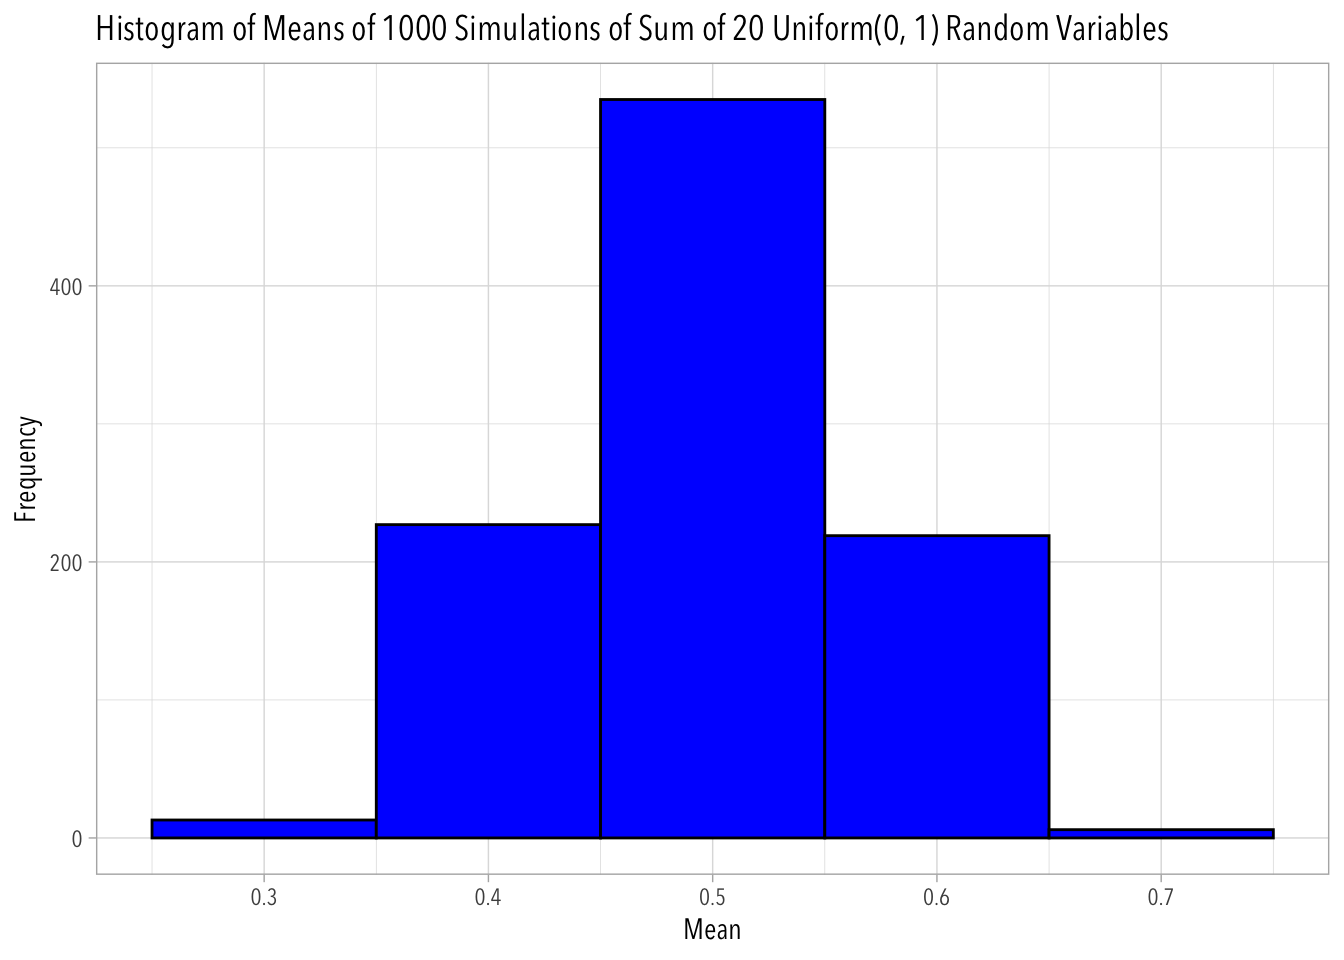
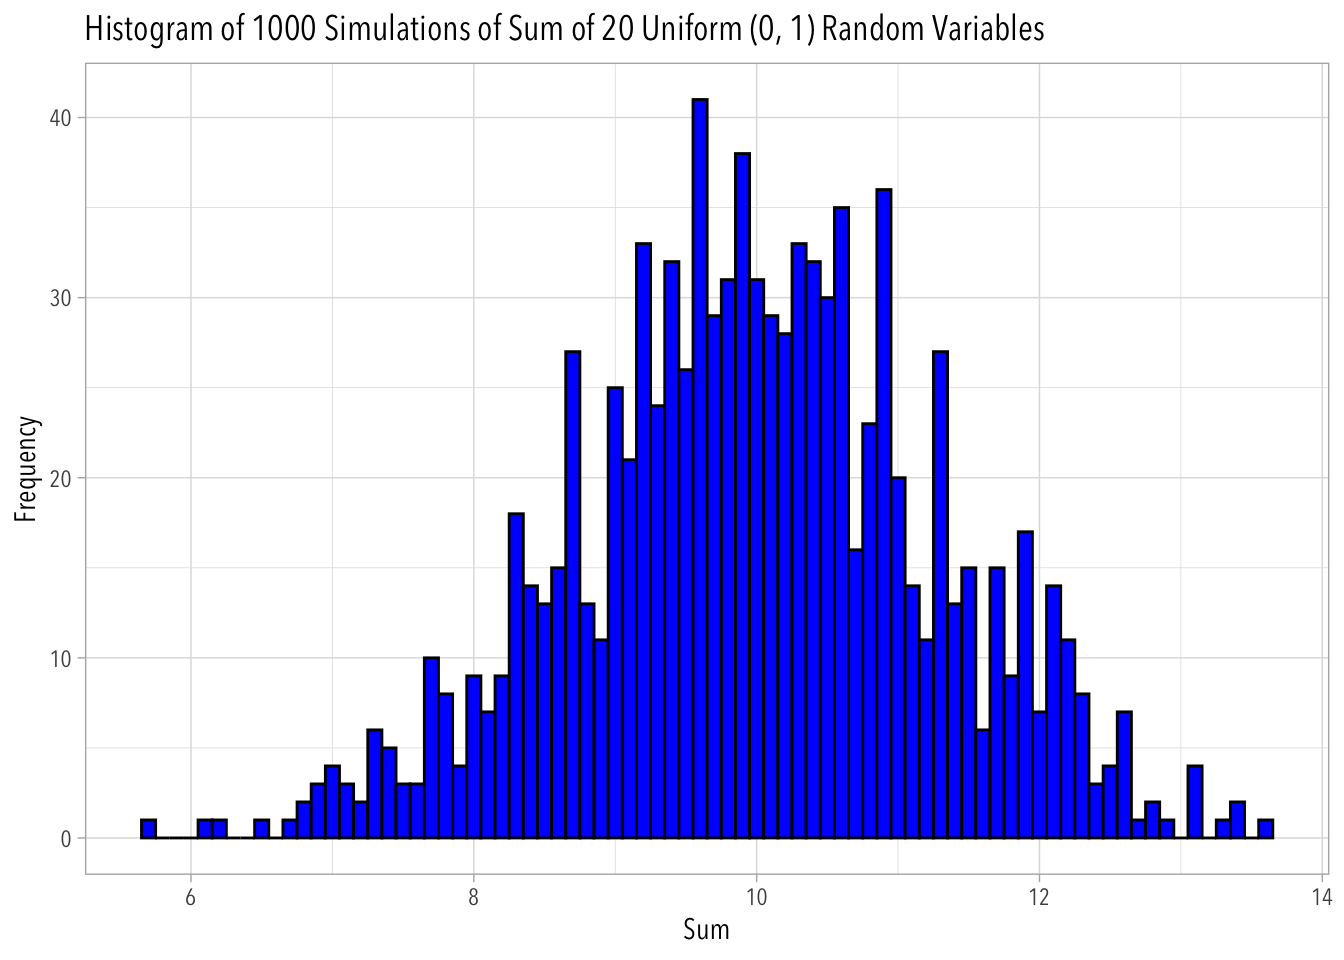
Revised responses

diff --git a/Week 4 Exercises/Exercise_04.html b/Week 4 Exercises/Exercise_04.html
@@ -106,32 +106,37 @@ pre > code.sourceCode > span > a:first-child::before { text-decoration: underlin
 <p>Use the mean() function to verify that x exhibits those four behaviors.</p>
 <div class="cell">
 <div class="sourceCode cell-code" id="cb1"><pre class="sourceCode r code-with-copy"><code class="sourceCode r"><span id="cb1-1"><a href="#cb1-1" aria-hidden="true" tabindex="-1"></a>x <span class="ot">&lt;-</span> <span class="fu">rnorm</span>(<span class="dv">100000</span>, <span class="at">mean =</span> <span class="dv">0</span>, <span class="at">sd =</span> <span class="dv">1</span>)</span>
-<span id="cb1-2"><a href="#cb1-2" aria-hidden="true" tabindex="-1"></a></span>
-<span id="cb1-3"><a href="#cb1-3" aria-hidden="true" tabindex="-1"></a></span>
-<span id="cb1-4"><a href="#cb1-4" aria-hidden="true" tabindex="-1"></a>mean_x<span class="ot">&lt;-</span><span class="fu">mean</span>(x)</span>
-<span id="cb1-5"><a href="#cb1-5" aria-hidden="true" tabindex="-1"></a>sd_x<span class="ot">&lt;-</span><span class="fu">sd</span>(x)</span>
-<span id="cb1-6"><a href="#cb1-6" aria-hidden="true" tabindex="-1"></a></span>
-<span id="cb1-7"><a href="#cb1-7" aria-hidden="true" tabindex="-1"></a><span class="co"># Calculating proportion of data within one SD of the mean</span></span>
-<span id="cb1-8"><a href="#cb1-8" aria-hidden="true" tabindex="-1"></a><span class="fu">sum</span>(<span class="fu">abs</span>(x <span class="sc">-</span> mean_x) <span class="sc">&lt;=</span> sd_x) <span class="sc">/</span> <span class="fu">length</span>(x)</span></code><button title="Copy to Clipboard" class="code-copy-button"><i class="bi"></i></button></pre></div>
+<span id="cb1-2"><a href="#cb1-2" aria-hidden="true" tabindex="-1"></a>mean_x<span class="ot">&lt;-</span><span class="fu">mean</span>(x)</span>
+<span id="cb1-3"><a href="#cb1-3" aria-hidden="true" tabindex="-1"></a>sd_x<span class="ot">&lt;-</span><span class="fu">sd</span>(x)</span>
+<span id="cb1-4"><a href="#cb1-4" aria-hidden="true" tabindex="-1"></a></span>
+<span id="cb1-5"><a href="#cb1-5" aria-hidden="true" tabindex="-1"></a><span class="co"># Calculating proportion of data within one SD of the mean</span></span>
+<span id="cb1-6"><a href="#cb1-6" aria-hidden="true" tabindex="-1"></a><span class="fu">sum</span>(<span class="fu">abs</span>(x <span class="sc">-</span> mean_x) <span class="sc">&lt;=</span> sd_x) <span class="sc">/</span> <span class="fu">length</span>(x)</span></code><button title="Copy to Clipboard" class="code-copy-button"><i class="bi"></i></button></pre></div>
 <div class="cell-output cell-output-stdout">
-<pre><code>[1] 0.68219</code></pre>
+<pre><code>[1] 0.68328</code></pre>
 </div>
 <div class="sourceCode cell-code" id="cb3"><pre class="sourceCode r code-with-copy"><code class="sourceCode r"><span id="cb3-1"><a href="#cb3-1" aria-hidden="true" tabindex="-1"></a><span class="co"># Calculating proportion of data within two SDs of the mean</span></span>
 <span id="cb3-2"><a href="#cb3-2" aria-hidden="true" tabindex="-1"></a><span class="fu">sum</span>(<span class="fu">abs</span>(x <span class="sc">-</span> mean_x) <span class="sc">&lt;=</span> <span class="dv">2</span> <span class="sc">*</span> sd_x) <span class="sc">/</span> <span class="fu">length</span>(x)</span></code><button title="Copy to Clipboard" class="code-copy-button"><i class="bi"></i></button></pre></div>
 <div class="cell-output cell-output-stdout">
-<pre><code>[1] 0.95419</code></pre>
+<pre><code>[1] 0.95492</code></pre>
 </div>
 <div class="sourceCode cell-code" id="cb5"><pre class="sourceCode r code-with-copy"><code class="sourceCode r"><span id="cb5-1"><a href="#cb5-1" aria-hidden="true" tabindex="-1"></a><span class="co"># Calculating the proportion of data above the mean</span></span>
 <span id="cb5-2"><a href="#cb5-2" aria-hidden="true" tabindex="-1"></a><span class="fu">sum</span>(x <span class="sc">&gt;</span> mean_x) <span class="sc">/</span> <span class="fu">length</span>(x)</span></code><button title="Copy to Clipboard" class="code-copy-button"><i class="bi"></i></button></pre></div>
 <div class="cell-output cell-output-stdout">
-<pre><code>[1] 0.49936</code></pre>
+<pre><code>[1] 0.50085</code></pre>
 </div>
 <div class="sourceCode cell-code" id="cb7"><pre class="sourceCode r code-with-copy"><code class="sourceCode r"><span id="cb7-1"><a href="#cb7-1" aria-hidden="true" tabindex="-1"></a><span class="co"># Calculating the proportion of data below the mean</span></span>
 <span id="cb7-2"><a href="#cb7-2" aria-hidden="true" tabindex="-1"></a><span class="fu">sum</span>(x <span class="sc">&lt;</span> mean_x) <span class="sc">/</span> <span class="fu">length</span>(x)</span></code><button title="Copy to Clipboard" class="code-copy-button"><i class="bi"></i></button></pre></div>
 <div class="cell-output cell-output-stdout">
-<pre><code>[1] 0.50064</code></pre>
+<pre><code>[1] 0.49915</code></pre>
 </div>
 </div>
+<p>I verify that x:</p>
+<ol type="1">
+<li>The probability that x is within one sd from the mean is roughly 68%</li>
+<li>The probability that x is within 2 sds from the mean is roughly 95%</li>
+<li>The probability that x is above the mean is roughly 50%</li>
+<li>The probability that x is below the mean is roughly 50%</li>
+</ol>
 </section>
 <section id="section-1" class="level1">
 <h1><strong>4.2</strong></h1>
@@ -140,7 +145,7 @@ pre > code.sourceCode > span > a:first-child::before { text-decoration: underlin
 <div class="sourceCode cell-code" id="cb9"><pre class="sourceCode r code-with-copy"><code class="sourceCode r"><span id="cb9-1"><a href="#cb9-1" aria-hidden="true" tabindex="-1"></a><span class="fu">quantile</span>(x)</span></code><button title="Copy to Clipboard" class="code-copy-button"><i class="bi"></i></button></pre></div>
 <div class="cell-output cell-output-stdout">
 <pre><code>          0%          25%          50%          75%         100% 
--4.504642883 -0.676106636 -0.002034756  0.671751093  5.187369717 </code></pre>
+-4.375343108 -0.677208220 -0.001877512  0.673738804  4.491992133 </code></pre>
 </div>
 </div>
 <p>The <code>quantile()</code> function returns a vector of quantiles, or the specific datapoints that divide the x dataset into intervals of equal probabilities: 0%, 25%, 50%, 75%, 100%. The x dataset is normally distributed with a target mean of 0, so as expected, the 50% quantile is approximately equal to 0. The 25% quantile is roughly symmetrical with the 75% quantile, and the 0% quantile is roughly symmetrical with the 100% quantile.</p>
@@ -149,15 +154,17 @@ pre > code.sourceCode > span > a:first-child::before { text-decoration: underlin
 <h1>4.3</h1>
 <p>Now modify the probs argument in the quantile() to find the 0.5% and 99.5% percentiles of x.</p>
 <div class="cell">
-<div class="sourceCode cell-code" id="cb11"><pre class="sourceCode r code-with-copy"><code class="sourceCode r"><span id="cb11-1"><a href="#cb11-1" aria-hidden="true" tabindex="-1"></a><span class="fu">quantile</span>(x, <span class="at">probs=</span><span class="fl">0.005</span>)</span></code><button title="Copy to Clipboard" class="code-copy-button"><i class="bi"></i></button></pre></div>
+<div class="sourceCode cell-code" id="cb11"><pre class="sourceCode r code-with-copy"><code class="sourceCode r"><span id="cb11-1"><a href="#cb11-1" aria-hidden="true" tabindex="-1"></a><span class="co"># .5% percentile</span></span>
+<span id="cb11-2"><a href="#cb11-2" aria-hidden="true" tabindex="-1"></a><span class="fu">quantile</span>(x, <span class="at">probs=</span><span class="fl">0.005</span>)</span></code><button title="Copy to Clipboard" class="code-copy-button"><i class="bi"></i></button></pre></div>
 <div class="cell-output cell-output-stdout">
 <pre><code>     0.5% 
--2.573622 </code></pre>
+-2.573671 </code></pre>
 </div>
-<div class="sourceCode cell-code" id="cb13"><pre class="sourceCode r code-with-copy"><code class="sourceCode r"><span id="cb13-1"><a href="#cb13-1" aria-hidden="true" tabindex="-1"></a><span class="fu">quantile</span>(x, <span class="at">probs=</span><span class="fl">0.995</span>)</span></code><button title="Copy to Clipboard" class="code-copy-button"><i class="bi"></i></button></pre></div>
+<div class="sourceCode cell-code" id="cb13"><pre class="sourceCode r code-with-copy"><code class="sourceCode r"><span id="cb13-1"><a href="#cb13-1" aria-hidden="true" tabindex="-1"></a><span class="co"># 99.5% quantile</span></span>
+<span id="cb13-2"><a href="#cb13-2" aria-hidden="true" tabindex="-1"></a><span class="fu">quantile</span>(x, <span class="at">probs=</span><span class="fl">0.995</span>)</span></code><button title="Copy to Clipboard" class="code-copy-button"><i class="bi"></i></button></pre></div>
 <div class="cell-output cell-output-stdout">
 <pre><code>   99.5% 
-2.589747 </code></pre>
+2.580289 </code></pre>
 </div>
 </div>
 </section>
@@ -165,65 +172,52 @@ pre > code.sourceCode > span > a:first-child::before { text-decoration: underlin
 <h1>4.4</h1>
 <p>Use the <code>mean()</code> function to verify that the probability of x being between -2.576 <em>and</em> 2.576 is roughly 99%.</p>
 <div class="cell">
-<div class="sourceCode cell-code" id="cb15"><pre class="sourceCode r code-with-copy"><code class="sourceCode r"><span id="cb15-1"><a href="#cb15-1" aria-hidden="true" tabindex="-1"></a>lower_bound <span class="ot">&lt;-</span> mean_x <span class="sc">-</span> <span class="fl">2.576</span> <span class="sc">*</span> sd_x</span>
-<span id="cb15-2"><a href="#cb15-2" aria-hidden="true" tabindex="-1"></a>upper_bound <span class="ot">&lt;-</span> mean_x <span class="sc">+</span> <span class="fl">2.576</span> <span class="sc">*</span> sd_x</span>
-<span id="cb15-3"><a href="#cb15-3" aria-hidden="true" tabindex="-1"></a></span>
-<span id="cb15-4"><a href="#cb15-4" aria-hidden="true" tabindex="-1"></a><span class="fu">mean</span>(x <span class="sc">&gt;=</span> lower_bound <span class="sc">&amp;</span> x <span class="sc">&lt;=</span> upper_bound)</span></code><button title="Copy to Clipboard" class="code-copy-button"><i class="bi"></i></button></pre></div>
+<div class="sourceCode cell-code" id="cb15"><pre class="sourceCode r code-with-copy"><code class="sourceCode r"><span id="cb15-1"><a href="#cb15-1" aria-hidden="true" tabindex="-1"></a><span class="fu">mean</span>(x <span class="sc">&gt;=</span> <span class="sc">-</span><span class="fl">2.576</span> <span class="sc">&amp;</span> x <span class="sc">&lt;=</span> <span class="fl">2.576</span>)</span></code><button title="Copy to Clipboard" class="code-copy-button"><i class="bi"></i></button></pre></div>
 <div class="cell-output cell-output-stdout">
-<pre><code>[1] 0.98975</code></pre>
+<pre><code>[1] 0.98997</code></pre>
 </div>
 </div>
+<p>Yup! The probability that x is between -2.576 and 2.576 is roughly 99%</p>
 </section>
 <section id="section-4" class="level1">
 <h1>4.5</h1>
-<p>Let x=x1+…+x20, the sum of 20 independent uniform(0, 1) random variables. In R, create 1000 simulations of x and plot the histogram of their means.</p>
+<p>Let x=x1+…+x20, the sum of 20 independent uniform (0, 1) random variables. In R, create 1000 simulations of x and plot their histogram.</p>
 <div class="cell">
-<div class="sourceCode cell-code" id="cb17"><pre class="sourceCode r code-with-copy"><code class="sourceCode r"><span id="cb17-1"><a href="#cb17-1" aria-hidden="true" tabindex="-1"></a><span class="co"># Load the ggplot2 library</span></span>
-<span id="cb17-2"><a href="#cb17-2" aria-hidden="true" tabindex="-1"></a><span class="fu">library</span>(ggplot2)</span>
+<div class="sourceCode cell-code" id="cb17"><pre class="sourceCode r code-with-copy"><code class="sourceCode r"><span id="cb17-1"><a href="#cb17-1" aria-hidden="true" tabindex="-1"></a><span class="co"># Create an empty vector to store the sums</span></span>
+<span id="cb17-2"><a href="#cb17-2" aria-hidden="true" tabindex="-1"></a>sums <span class="ot">&lt;-</span> <span class="fu">numeric</span>(<span class="dv">1000</span>)</span>
 <span id="cb17-3"><a href="#cb17-3" aria-hidden="true" tabindex="-1"></a></span>
-<span id="cb17-4"><a href="#cb17-4" aria-hidden="true" tabindex="-1"></a><span class="co"># Set the number of simulations</span></span>
-<span id="cb17-5"><a href="#cb17-5" aria-hidden="true" tabindex="-1"></a>num_simulations <span class="ot">&lt;-</span> <span class="dv">1000</span></span>
-<span id="cb17-6"><a href="#cb17-6" aria-hidden="true" tabindex="-1"></a></span>
-<span id="cb17-7"><a href="#cb17-7" aria-hidden="true" tabindex="-1"></a><span class="co"># Set the number of random variables to sum</span></span>
-<span id="cb17-8"><a href="#cb17-8" aria-hidden="true" tabindex="-1"></a>num_variables <span class="ot">&lt;-</span> <span class="dv">20</span></span>
-<span id="cb17-9"><a href="#cb17-9" aria-hidden="true" tabindex="-1"></a></span>
-<span id="cb17-10"><a href="#cb17-10" aria-hidden="true" tabindex="-1"></a><span class="co"># Create an empty vector to store the means</span></span>
-<span id="cb17-11"><a href="#cb17-11" aria-hidden="true" tabindex="-1"></a>means <span class="ot">&lt;-</span> <span class="fu">numeric</span>(num_simulations)</span>
-<span id="cb17-12"><a href="#cb17-12" aria-hidden="true" tabindex="-1"></a></span>
-<span id="cb17-13"><a href="#cb17-13" aria-hidden="true" tabindex="-1"></a><span class="co"># Perform the simulations and calculate the means</span></span>
-<span id="cb17-14"><a href="#cb17-14" aria-hidden="true" tabindex="-1"></a><span class="cf">for</span> (i <span class="cf">in</span> <span class="dv">1</span><span class="sc">:</span>num_simulations) {</span>
-<span id="cb17-15"><a href="#cb17-15" aria-hidden="true" tabindex="-1"></a>  <span class="co"># Generate 20 independent uniform(0, 1) random variables and sum them</span></span>
-<span id="cb17-16"><a href="#cb17-16" aria-hidden="true" tabindex="-1"></a>  simulation <span class="ot">&lt;-</span> <span class="fu">sum</span>(<span class="fu">runif</span>(num_variables))</span>
-<span id="cb17-17"><a href="#cb17-17" aria-hidden="true" tabindex="-1"></a>  </span>
-<span id="cb17-18"><a href="#cb17-18" aria-hidden="true" tabindex="-1"></a>  <span class="co"># Store the mean in the 'means' vector</span></span>
-<span id="cb17-19"><a href="#cb17-19" aria-hidden="true" tabindex="-1"></a>  means[i] <span class="ot">&lt;-</span> simulation <span class="sc">/</span> num_variables</span>
-<span id="cb17-20"><a href="#cb17-20" aria-hidden="true" tabindex="-1"></a>}</span>
-<span id="cb17-21"><a href="#cb17-21" aria-hidden="true" tabindex="-1"></a></span>
-<span id="cb17-22"><a href="#cb17-22" aria-hidden="true" tabindex="-1"></a><span class="co"># Create a data frame for ggplot</span></span>
-<span id="cb17-23"><a href="#cb17-23" aria-hidden="true" tabindex="-1"></a>data <span class="ot">&lt;-</span> <span class="fu">data.frame</span>(means)</span>
-<span id="cb17-24"><a href="#cb17-24" aria-hidden="true" tabindex="-1"></a></span>
-<span id="cb17-25"><a href="#cb17-25" aria-hidden="true" tabindex="-1"></a><span class="co"># Create a histogram plot using ggplot</span></span>
-<span id="cb17-26"><a href="#cb17-26" aria-hidden="true" tabindex="-1"></a><span class="fu">ggplot</span>(data, <span class="fu">aes</span>(<span class="at">x =</span> means)) <span class="sc">+</span></span>
-<span id="cb17-27"><a href="#cb17-27" aria-hidden="true" tabindex="-1"></a>  <span class="fu">geom_histogram</span>(<span class="at">binwidth =</span> <span class="fl">0.1</span>, <span class="at">fill =</span> <span class="st">"blue"</span>, <span class="at">color =</span> <span class="st">"black"</span>) <span class="sc">+</span></span>
-<span id="cb17-28"><a href="#cb17-28" aria-hidden="true" tabindex="-1"></a>  <span class="fu">labs</span>(<span class="at">title =</span> <span class="st">"Histogram of Means of 1000 Simulations of Sum of 20 Uniform(0, 1) Random Variables"</span>,</span>
-<span id="cb17-29"><a href="#cb17-29" aria-hidden="true" tabindex="-1"></a>       <span class="at">x =</span> <span class="st">"Mean"</span>,</span>
-<span id="cb17-30"><a href="#cb17-30" aria-hidden="true" tabindex="-1"></a>       <span class="at">y =</span> <span class="st">"Frequency"</span>)</span></code><button title="Copy to Clipboard" class="code-copy-button"><i class="bi"></i></button></pre></div>
+<span id="cb17-4"><a href="#cb17-4" aria-hidden="true" tabindex="-1"></a><span class="co"># Perform the simulations</span></span>
+<span id="cb17-5"><a href="#cb17-5" aria-hidden="true" tabindex="-1"></a><span class="cf">for</span> (i <span class="cf">in</span> <span class="dv">1</span><span class="sc">:</span><span class="dv">1000</span>) {</span>
+<span id="cb17-6"><a href="#cb17-6" aria-hidden="true" tabindex="-1"></a>  <span class="co"># Generate 20 independent uniform(0, 1) random variables and sum them</span></span>
+<span id="cb17-7"><a href="#cb17-7" aria-hidden="true" tabindex="-1"></a>  sums[i] <span class="ot">&lt;-</span> <span class="fu">sum</span>(<span class="fu">runif</span>(<span class="at">n=</span><span class="dv">20</span>, <span class="at">min =</span> <span class="dv">0</span>, <span class="at">max=</span><span class="dv">1</span>))</span>
+<span id="cb17-8"><a href="#cb17-8" aria-hidden="true" tabindex="-1"></a></span>
+<span id="cb17-9"><a href="#cb17-9" aria-hidden="true" tabindex="-1"></a>}</span>
+<span id="cb17-10"><a href="#cb17-10" aria-hidden="true" tabindex="-1"></a></span>
+<span id="cb17-11"><a href="#cb17-11" aria-hidden="true" tabindex="-1"></a><span class="co"># Create a data frame for ggplot</span></span>
+<span id="cb17-12"><a href="#cb17-12" aria-hidden="true" tabindex="-1"></a>data <span class="ot">&lt;-</span> <span class="fu">data.frame</span>(sums)</span>
+<span id="cb17-13"><a href="#cb17-13" aria-hidden="true" tabindex="-1"></a></span>
+<span id="cb17-14"><a href="#cb17-14" aria-hidden="true" tabindex="-1"></a><span class="co"># Create a histogram plot using ggplot</span></span>
+<span id="cb17-15"><a href="#cb17-15" aria-hidden="true" tabindex="-1"></a><span class="fu">ggplot</span>(data, <span class="fu">aes</span>(<span class="at">x =</span> sums)) <span class="sc">+</span></span>
+<span id="cb17-16"><a href="#cb17-16" aria-hidden="true" tabindex="-1"></a>  <span class="fu">geom_histogram</span>(<span class="at">binwidth =</span> <span class="fl">0.1</span>, <span class="at">fill =</span> <span class="st">"blue"</span>, <span class="at">color =</span> <span class="st">"black"</span>) <span class="sc">+</span></span>
+<span id="cb17-17"><a href="#cb17-17" aria-hidden="true" tabindex="-1"></a>  <span class="fu">labs</span>(<span class="at">title =</span> <span class="st">"Histogram of 1000 Simulations of Sum of 20 Uniform (0, 1) Random Variables"</span>,</span>
+<span id="cb17-18"><a href="#cb17-18" aria-hidden="true" tabindex="-1"></a>       <span class="at">x =</span> <span class="st">"Sum"</span>,</span>
+<span id="cb17-19"><a href="#cb17-19" aria-hidden="true" tabindex="-1"></a>       <span class="at">y =</span> <span class="st">"Frequency"</span>)</span></code><button title="Copy to Clipboard" class="code-copy-button"><i class="bi"></i></button></pre></div>
 <div class="cell-output-display">
 <p><img src="Exercise_04_files/figure-html/unnamed-chunk-6-1.png" class="img-fluid" width="672"></p>
 </div>
 </div>
 <p>Use the sd() function on the sampling distribution simulated earlier, then compare this value to the standard error given by….</p>
 <div class="cell">
-<div class="sourceCode cell-code" id="cb18"><pre class="sourceCode r code-with-copy"><code class="sourceCode r"><span id="cb18-1"><a href="#cb18-1" aria-hidden="true" tabindex="-1"></a><span class="fu">sd</span>(means)</span></code><button title="Copy to Clipboard" class="code-copy-button"><i class="bi"></i></button></pre></div>
+<div class="sourceCode cell-code" id="cb18"><pre class="sourceCode r code-with-copy"><code class="sourceCode r"><span id="cb18-1"><a href="#cb18-1" aria-hidden="true" tabindex="-1"></a><span class="fu">sd</span>(sums)</span></code><button title="Copy to Clipboard" class="code-copy-button"><i class="bi"></i></button></pre></div>
 <div class="cell-output cell-output-stdout">
-<pre><code>[1] 0.06633272</code></pre>
+<pre><code>[1] 1.272787</code></pre>
 </div>
-<div class="sourceCode cell-code" id="cb20"><pre class="sourceCode r code-with-copy"><code class="sourceCode r"><span id="cb20-1"><a href="#cb20-1" aria-hidden="true" tabindex="-1"></a><span class="fu">sd</span>(<span class="fu">runif</span>(<span class="dv">20</span>)) <span class="sc">/</span> <span class="fu">sqrt</span>(<span class="dv">20</span>)</span></code><button title="Copy to Clipboard" class="code-copy-button"><i class="bi"></i></button></pre></div>
+<div class="sourceCode cell-code" id="cb20"><pre class="sourceCode r code-with-copy"><code class="sourceCode r"><span id="cb20-1"><a href="#cb20-1" aria-hidden="true" tabindex="-1"></a><span class="fu">sqrt</span>(<span class="dv">20</span><span class="sc">/</span><span class="dv">12</span>)</span></code><button title="Copy to Clipboard" class="code-copy-button"><i class="bi"></i></button></pre></div>
 <div class="cell-output cell-output-stdout">
-<pre><code>[1] 0.05651609</code></pre>
+<pre><code>[1] 1.290994</code></pre>
 </div>
 </div>
-<p>These two functions returned two super slightly different numbers (off by a difference of .001)--they pretty much mach.</p>
+<p>These two functions returned two super slightly different numbers (off by a difference of a few hundredths)--they pretty much match.</p>
 </section>
 <section id="section-5" class="level1">
 <h1>4.6</h1>
@@ -294,7 +288,7 @@ pre > code.sourceCode > span > a:first-child::before { text-decoration: underlin
 <span id="cb22-61"><a href="#cb22-61" aria-hidden="true" tabindex="-1"></a>ci95_sims_2500 <span class="ot">&lt;-</span> <span class="fu">c</span>(lower_bound95_sims_2500, upper_bound95_sims_2500)</span></code><button title="Copy to Clipboard" class="code-copy-button"><i class="bi"></i></button></pre></div>
 </div>
 <div class="cell">
-<div class="sourceCode cell-code" id="cb23"><pre class="sourceCode r code-with-copy"><code class="sourceCode r"><span id="cb23-1"><a href="#cb23-1" aria-hidden="true" tabindex="-1"></a><span class="co"># insepcting standard deviations and confidence interavls of results based on survey size</span></span>
+<div class="sourceCode cell-code" id="cb23"><pre class="sourceCode r code-with-copy"><code class="sourceCode r"><span id="cb23-1"><a href="#cb23-1" aria-hidden="true" tabindex="-1"></a><span class="co"># inspecting standard deviations and confidence interavls of results based on survey size</span></span>
 <span id="cb23-2"><a href="#cb23-2" aria-hidden="true" tabindex="-1"></a></span>
 <span id="cb23-3"><a href="#cb23-3" aria-hidden="true" tabindex="-1"></a><span class="co"># n=5--the 95% confidence interval is not 2 standard errors away from 0.33</span></span>
 <span id="cb23-4"><a href="#cb23-4" aria-hidden="true" tabindex="-1"></a><span class="fu">sd</span>(sims_5<span class="sc">$</span>prop)</span></code><button title="Copy to Clipboard" class="code-copy-button"><i class="bi"></i></button></pre></div>
